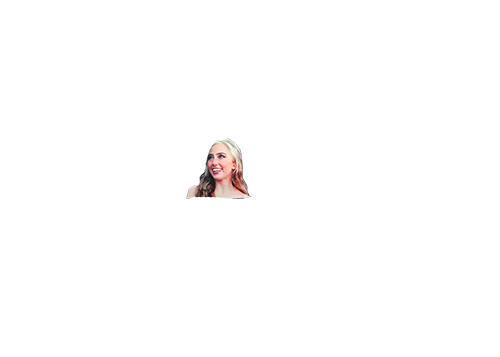
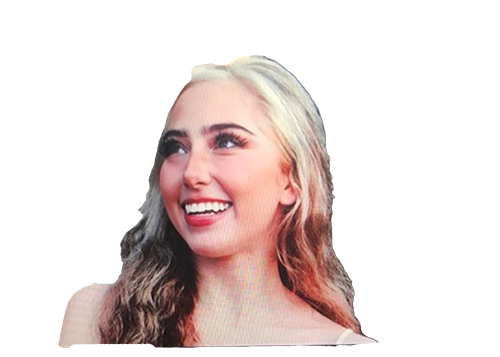
photos

diff --git a/index.html b/index.html
@@ -16,8 +16,9 @@
       <section class="glass">
         <div class="dashboard">
           <div class="user">
-            <img src="./images/avatar.png" alt="" />
-            <h3>Dahlia Bloomstone</h3>
+            <img src="./images/avatar.png" style="width:5em; height:5em;" alt="" />
+            <img src="./images/fuzzyY.png" style="width:5em; height:5em;" alt="" />
+            <h2>Dahlia Bloomstone</h2>
             <p>Pro Member</p>
           </div>
           <div class="links">
